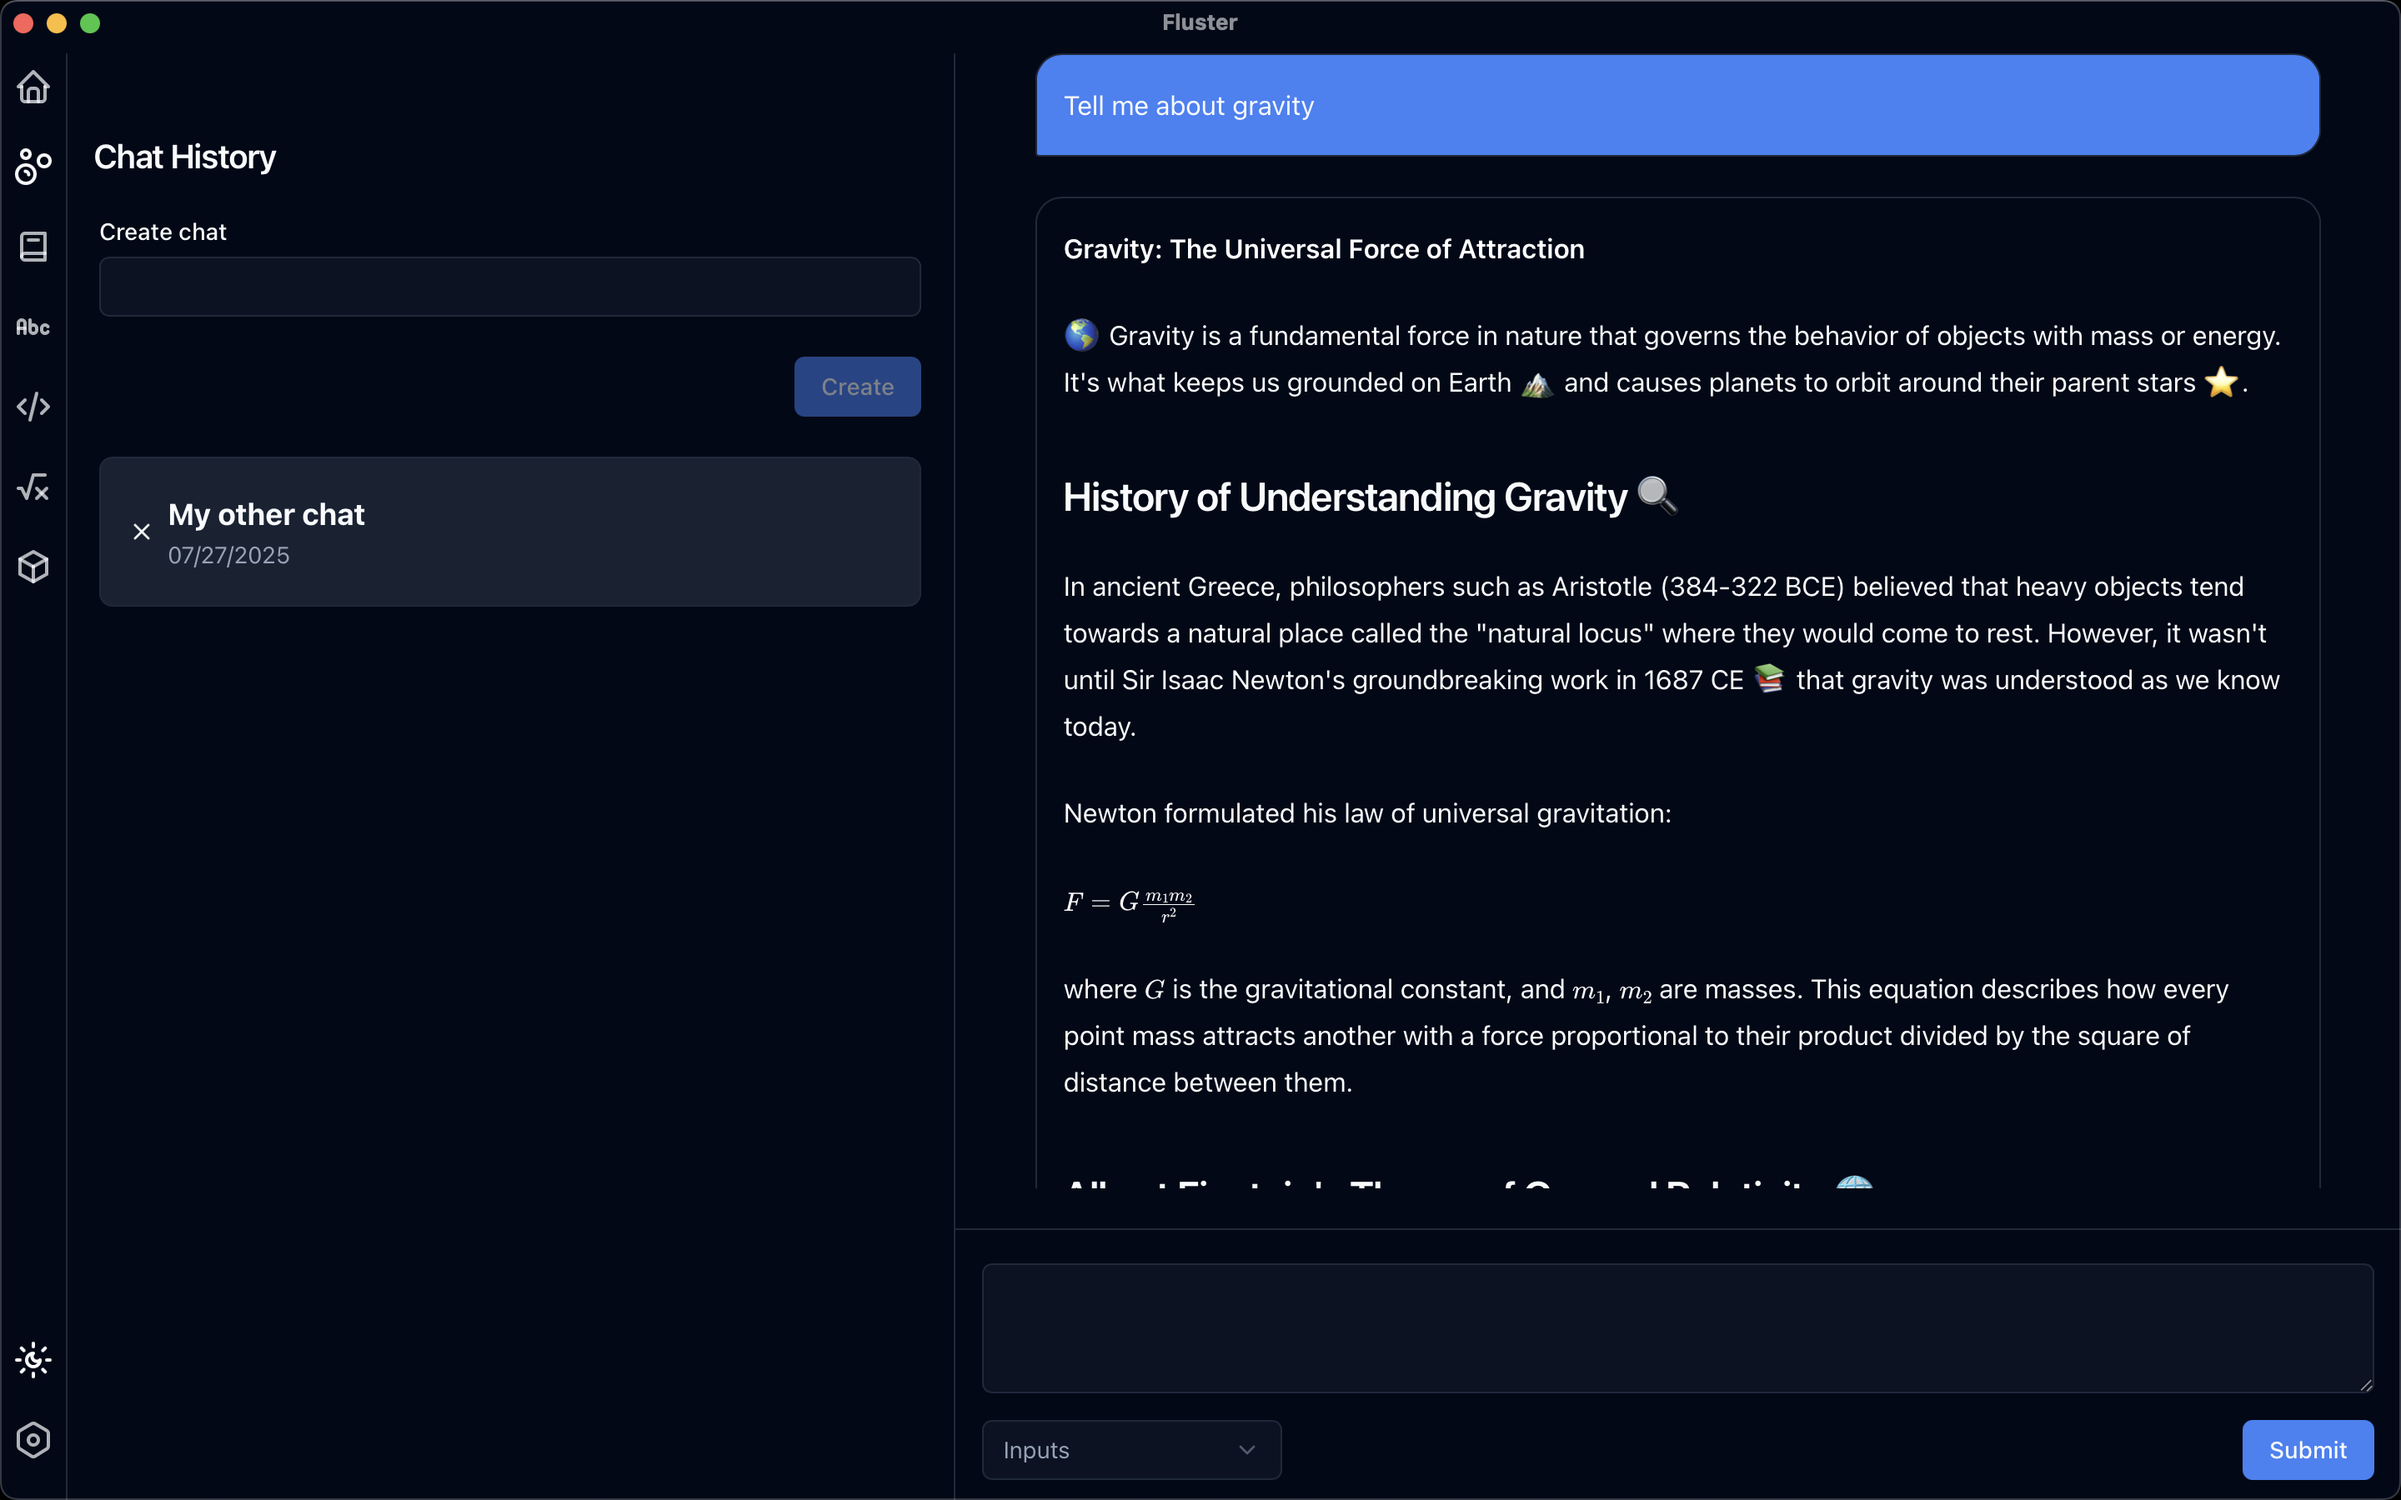
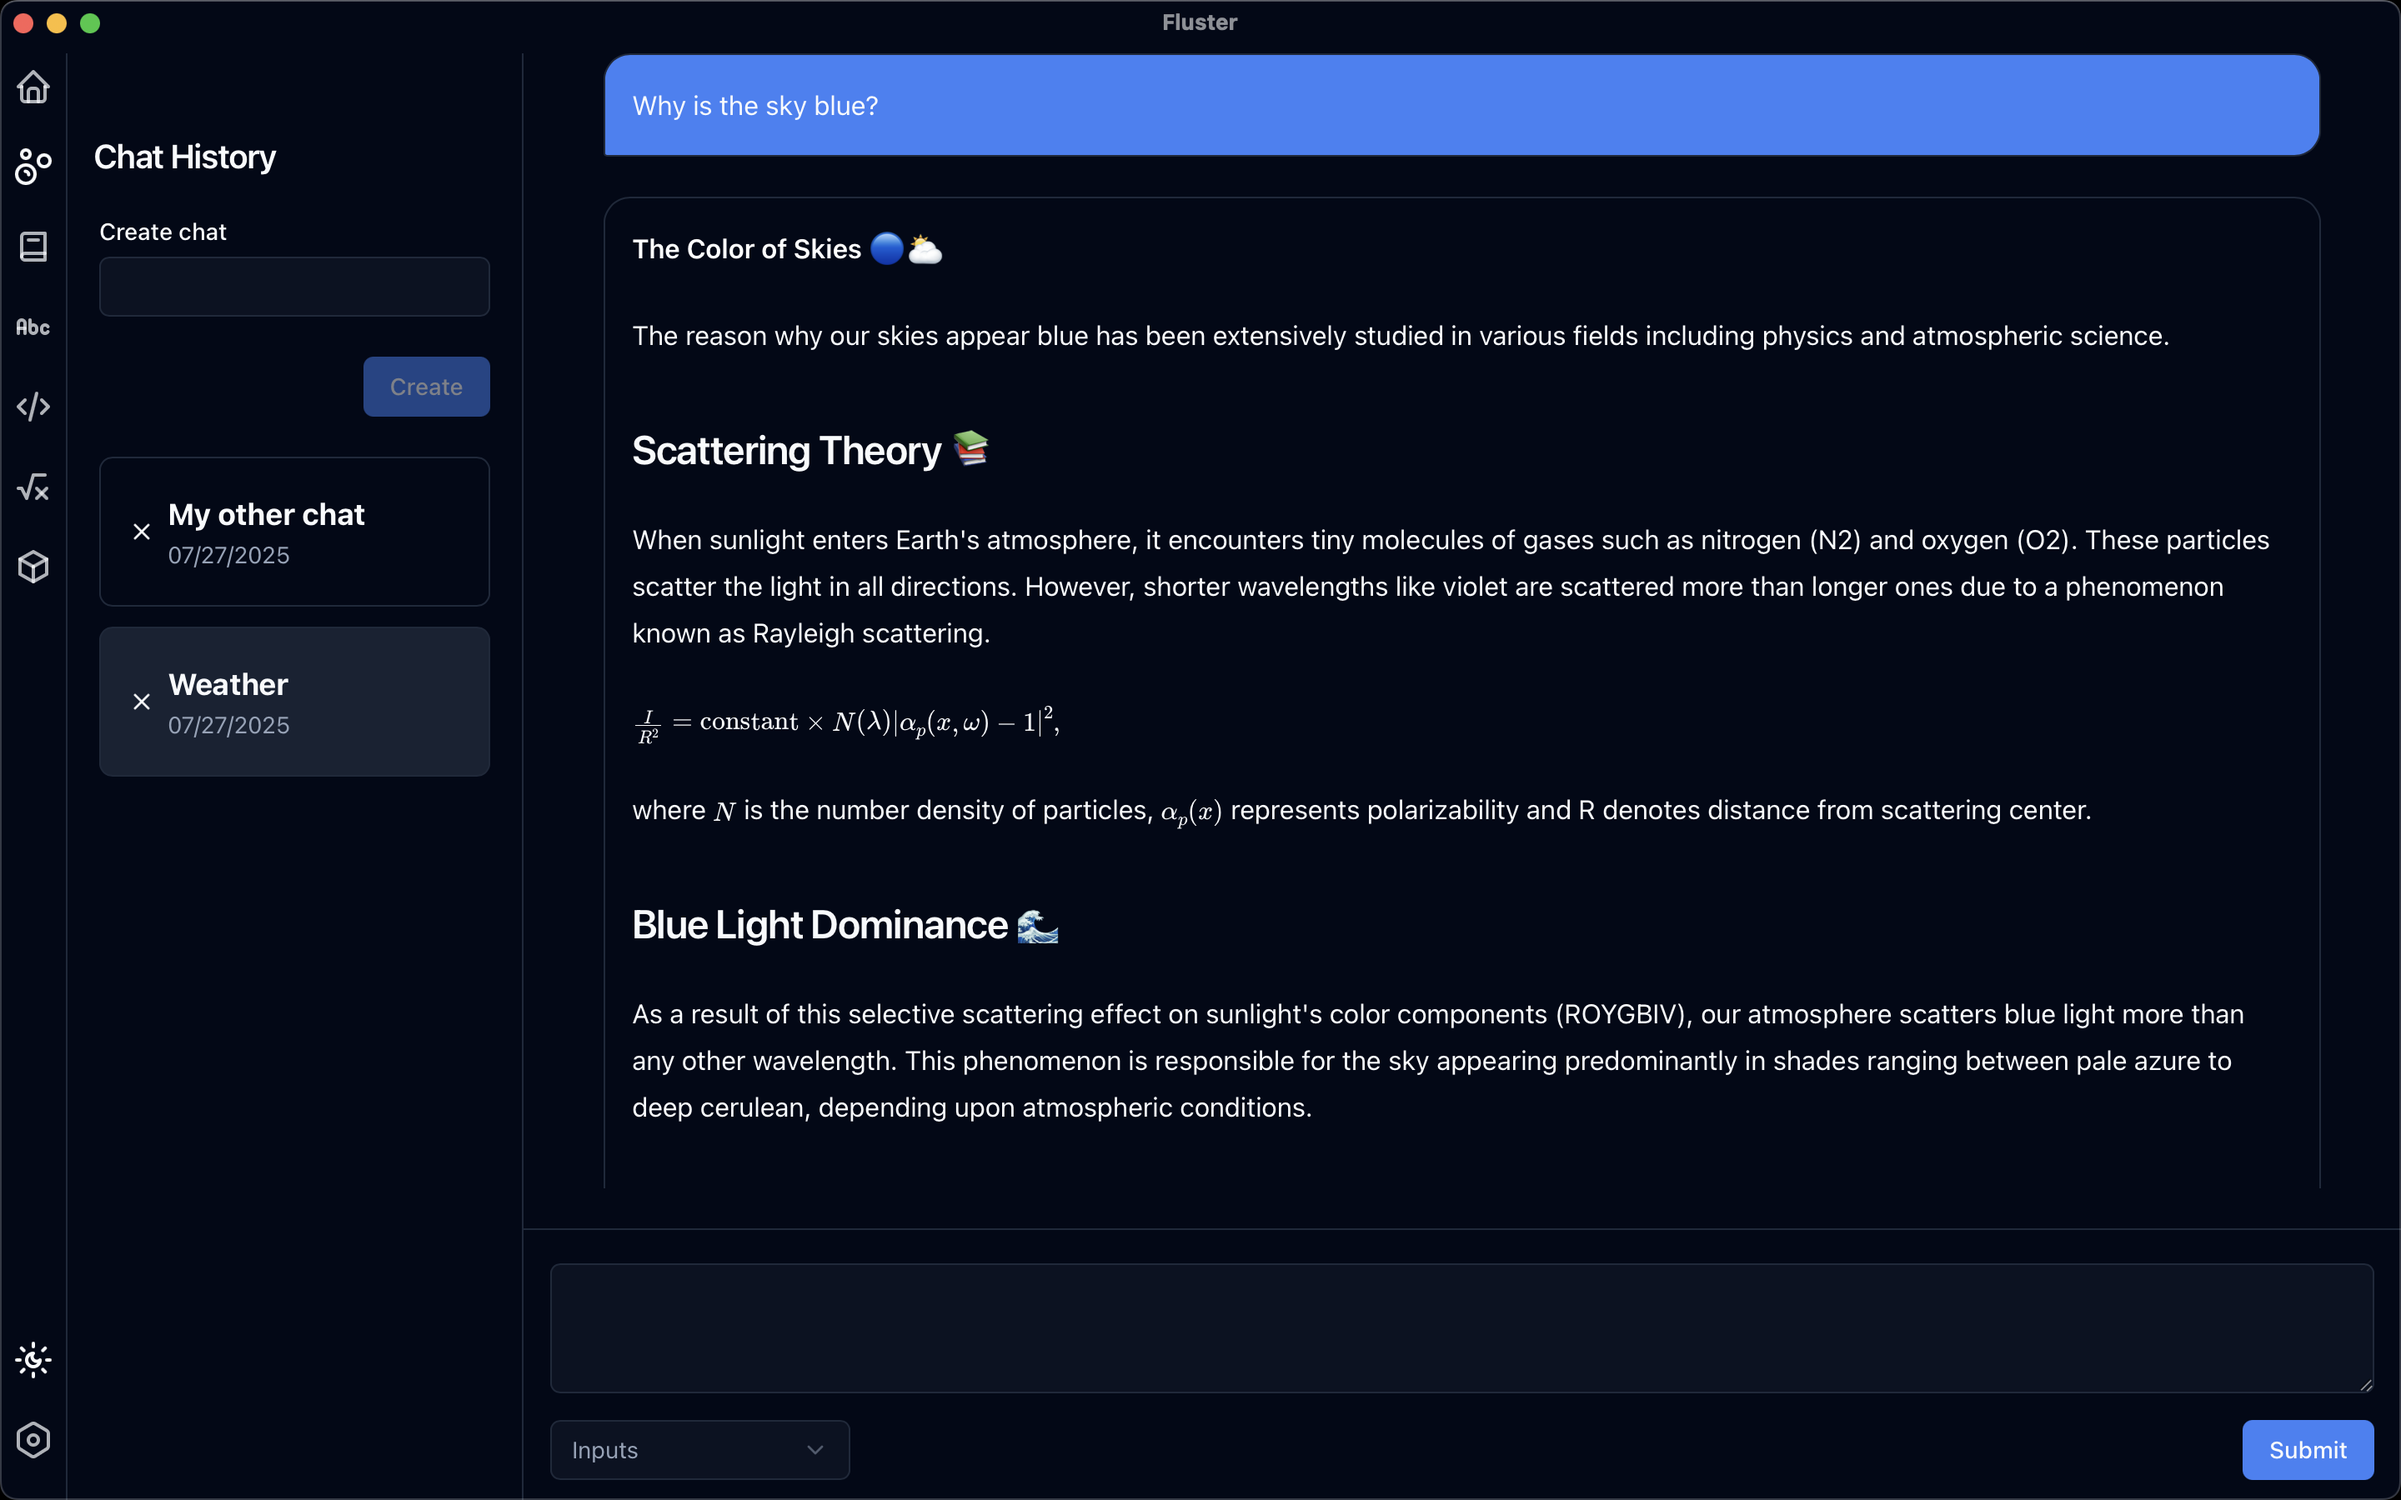
Website update slider images and landing page images

diff --git a/apps/website/src/features/image_carousel/index.tsx b/apps/website/src/features/image_carousel/index.tsx
@@ -103,7 +103,7 @@ export const ImageCarousel = ({
                         drag={"x"}
                         dragConstraints={{ left: 0, right: 0 }}
                         dragElastic={1}
-                        onDragEnd={(e, { offset, velocity }) => {
+                        onDragEnd={(_, { offset, velocity }) => {
                             const swipe = swipePower(offset.x, velocity.x);
                             if (swipe < -swipeConfidenceThreshold) {
                                 cycleImages(1);
@@ -133,13 +133,13 @@ export const ImageCarousel = ({
                 >
                     <button
                         onClick={() => cycleImages(-1)}
-                        className={"bg-secondary rounded-full p-1 h-8 w-8"}
+                        className={"bg-secondary rounded-full p-1 h-8 w-8 cursor-pointer"}
                     >
                         <ChevronLeft />
                     </button>
                     <button
                         onClick={() => cycleImages(1)}
-                        className={"bg-secondary rounded-full p-1 h-8 w-8"}
+                        className={"bg-secondary rounded-full p-1 h-8 w-8 cursor-pointer"}
                     >
                         <ChevronRight />
                     </button>

diff --git a/apps/website/src/core/feature_data/featureAssets/slideShowScreenshots.ts b/apps/website/src/core/feature_data/featureAssets/slideShowScreenshots.ts
@@ -6,6 +6,8 @@ import corePluginImage5 from "../../../../public/assets/blog/screenshots/slidesh
 import corePluginImage6 from "../../../../public/assets/blog/screenshots/slideshow/6.png";
 import corePluginImage7 from "../../../../public/assets/blog/screenshots/slideshow/7.png";
 import corePluginImage8 from "../../../../public/assets/blog/screenshots/slideshow/8.png";
+import corePluginImage9 from "../../../../public/assets/blog/screenshots/slideshow/9.png";
+import corePluginImage10 from "../../../../public/assets/blog/screenshots/slideshow/10.png";
 import { SlideShowImage } from "#/features/image_carousel";
 
 export const slideShowScreenshots: SlideShowImage[] = [
@@ -16,7 +18,10 @@ export const slideShowScreenshots: SlideShowImage[] = [
         src: corePluginImage5,
     },
     {
-        src: corePluginImage8,
+        src: corePluginImage9,
+    },
+    {
+        src: corePluginImage10,
     },
     {
         src: corePluginImage1,
@@ -29,6 +34,9 @@ export const slideShowScreenshots: SlideShowImage[] = [
     },
     {
         src: corePluginImage4,
+    },
+    {
+        src: corePluginImage8,
     },
     {
         src: corePluginImage7,

diff --git a/apps/website/src/core/feature_data/integrations.tsx b/apps/website/src/core/feature_data/integrations.tsx
@@ -29,17 +29,9 @@ export const integrationsFeature: FeaturedContainerPropsRequired = {
         return (
             <FeatureDescContainer>
                 <span>
-                    With{" "}
-                    <span
-                        className={
-                            "underline decoration-2 underline-offset-4 decoration-yellow-400"
-                        }
-                    >
-                        day 1
-                    </span>{" "}
-                    support for integration with Google Calendar and Jupyter and more
-                    external integrations planned for the near future, integrating Fluster
-                    with your existing workflow should be painless.
+                    With support for integration with Google Calendar and Jupyter with
+                    more external integrations planned for the near future, integrating
+                    Fluster with your existing workflow is painless.
                 </span>
                 <div
                     className={clsx(

diff --git a/apps/website/src/core/feature_data/mdxFeature.tsx b/apps/website/src/core/feature_data/mdxFeature.tsx
@@ -1,7 +1,6 @@
 "use client";
 import splitViewImg from "../../../public/assets/blog/screenshots/splitview.png";
 import { FeaturedContainerPropsRequired } from "#/features/landing_page/sections/feature_section/types";
-import { Hint } from "../components/hint";
 import Image from "next/image";
 
 export const mdxFeature: FeaturedContainerPropsRequired = {
@@ -17,7 +16,6 @@ export const mdxFeature: FeaturedContainerPropsRequired = {
                         "takes all of the simplicity of markdown and extends it to support React components directly in your notes. Plots, modals, whiteboards, and more are right at your fingertips, in a language that anyone can learn in a single day."
                     }
                 </div>
-                <Hint>Click the image to view the output.</Hint>
             </div>
         );
     },

diff --git a/apps/website/src/core/styles/globals.scss b/apps/website/src/core/styles/globals.scss
@@ -4,11 +4,9 @@
 @source "../../../../../docs/website/**/*.{mdx,tsx,jsx,ts,js}";
 @source "../../../content/**/*.mdx";
 @source "../../../src/**/*.{js,ts,jsx,tsx,mdx}";
-/* @config "../../../.tailwind.config.cjs"; */
 @plugin "@tailwindcss/typography";
 @plugin "@tailwindcss/container-queries";
 @plugin "tailwindcss-animate";
-/* @pplugin */
 
 @layer base {
   :root {
@@ -37,7 +35,7 @@
     --input: 217.2 32.6% 17.5%;
     --ring: 224.3 76.3% 48%;
     --general-link-color: #1e90ff;
-    --hint: 120 60.8% 50%;
+    --hint: 120 100% 50%;
     // Fluster specfic color variables. This is not the whole set, but just what's required for the website.
     --fluster-hint: 120 100% 50%;
   }

diff --git a/apps/website/src/features/landing_page/hero/hero.tsx b/apps/website/src/features/landing_page/hero/hero.tsx
@@ -68,7 +68,7 @@ const HeroSection = () => {
                     >
                         Built with <span className="text-yellow-500">Rust</span> for maximum
                         performance. Featuring AI-powered RAG, vector databases,
-                        bibliography management, and seamless integration with your research
+                        bibliography management, and seamless integration with your academic
                         workflow.
                     </motion.span>
                 </div>
